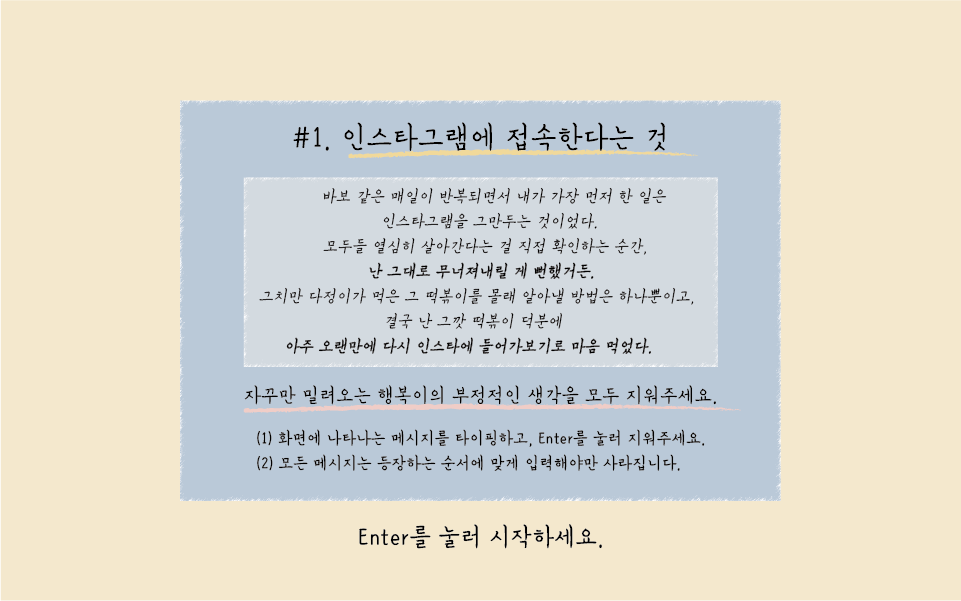
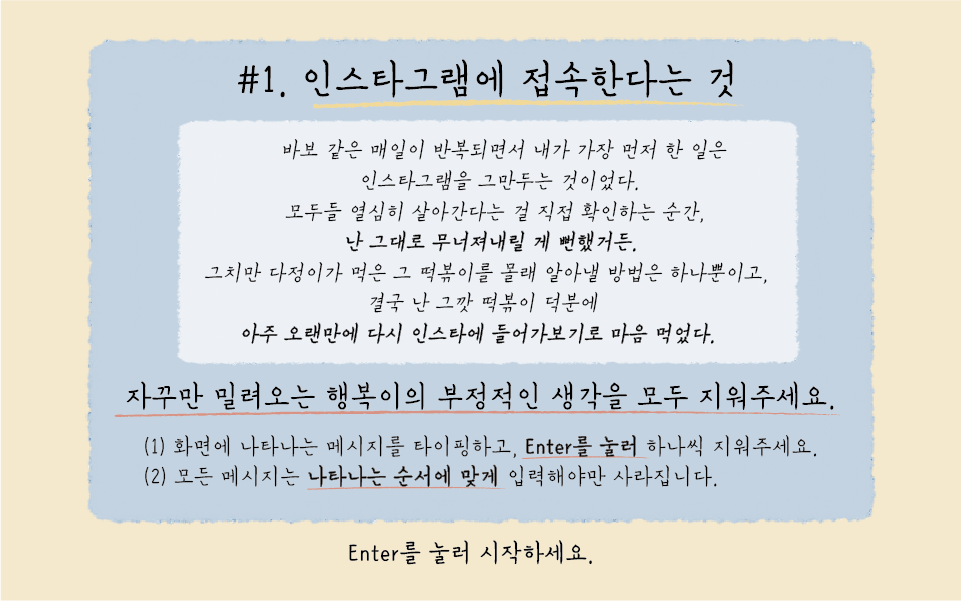
stage1 클리어 화면 반영, 튜토리얼 수정

diff --git a/sketch.js b/sketch.js
@@ -32,6 +32,7 @@ let fullSequenceTable;
 let stage1;
 let stage1Time;
 let stage1Background;
+let stage1FinishedImage;
 
 
 //for stage2
@@ -115,6 +116,9 @@ function draw() {
       stage1.drawStage1();
       drawGiveupButton();
       break;
+    case statFinishedStage1:
+      stage1.drawStage1Finished();
+      break;
     case statTutorial2:
       displayTutorial(2);
       break;
@@ -188,6 +192,11 @@ function keyPressed() {
       break;
     case statStage1:
       stage1.keyPressedStage1();
+      break;
+    case statFinishedStage1:
+      if (keyCode === ENTER) {
+        gameStat = statTutorial2;
+      }
       break;
     case statTutorial2:
       if (keyCode === ENTER) {
@@ -284,6 +293,7 @@ function preloadData() {
 
 function preloadImages() {
   stage1Background = loadImage('assets/stage1/Stage1Background.png');
+  stage1FinishedImage = loadImage('assets/stage1/Stage1Clear.png');
   stage3Background = loadImage('assets/stage3/Stage3Background.png');
   for (let i = 1; i < 9; i++) {
     happinessWalkImages.push(loadImage('assets/stage3/happinessWalk/HappinessWalk' + i + '.png'));

diff --git a/stage1.js b/stage1.js
@@ -19,7 +19,7 @@ class Stage1 {
 
   finish(){
     this.hideInput();
-    gameStat = statTutorial2;
+    gameStat = statFinishedStage1;
   }
 
   thinkOn(){
@@ -67,6 +67,10 @@ class Stage1 {
 
   displayInput(){
     this.input.position(65, 540);
+  }
+
+  drawStage1Finished(){
+    image(stage1FinishedImage, 0, 0, 960, 600);
   }
 
 }
